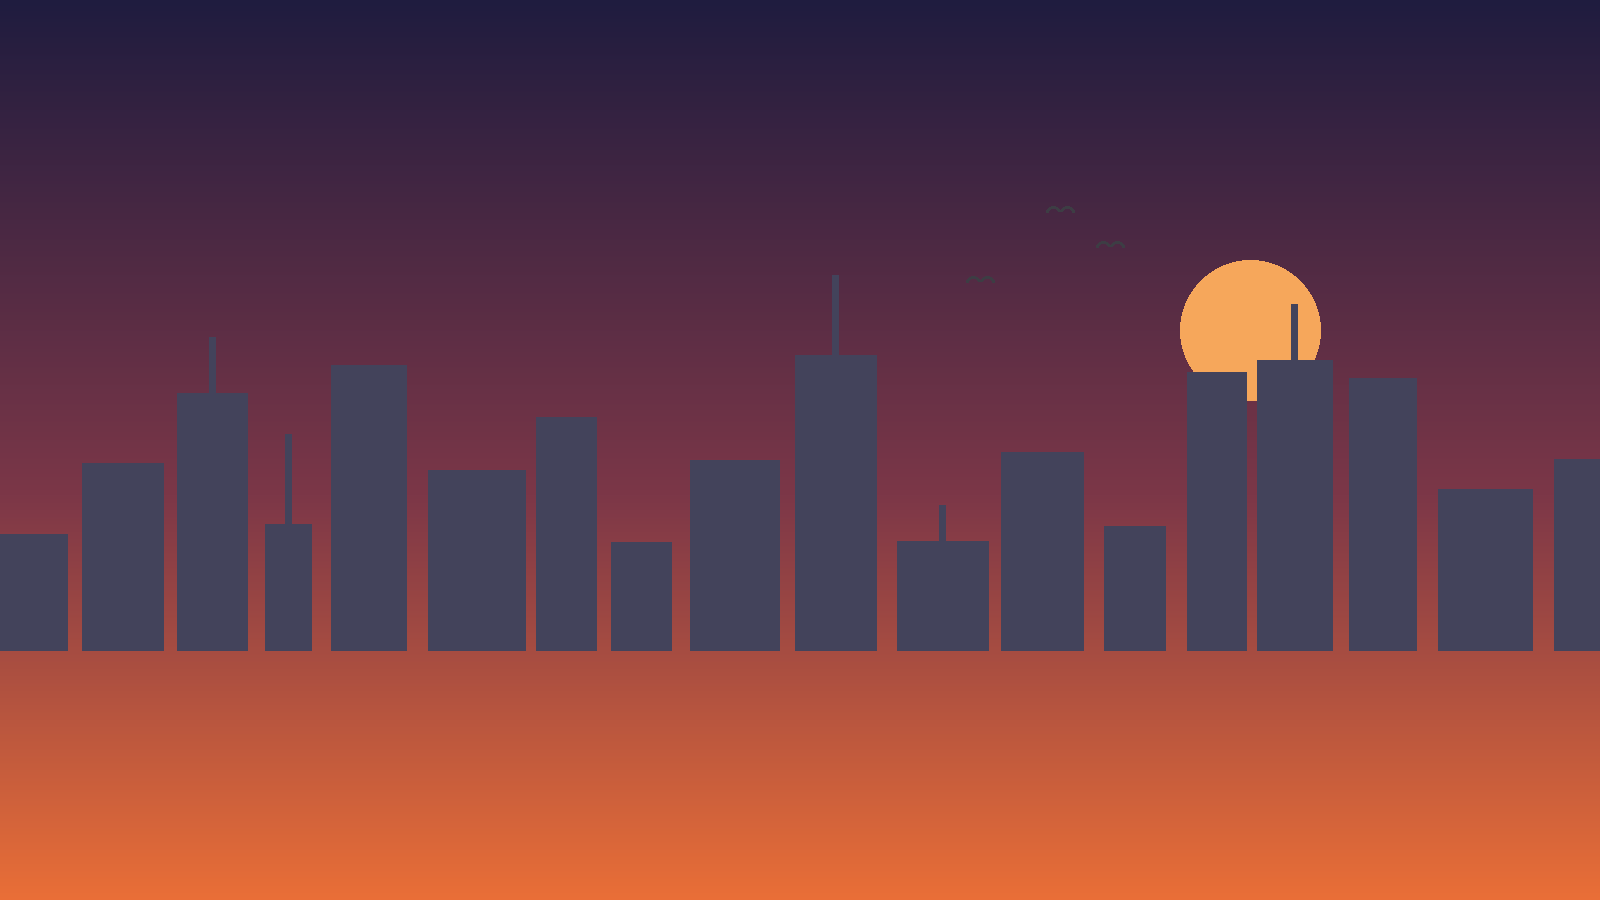
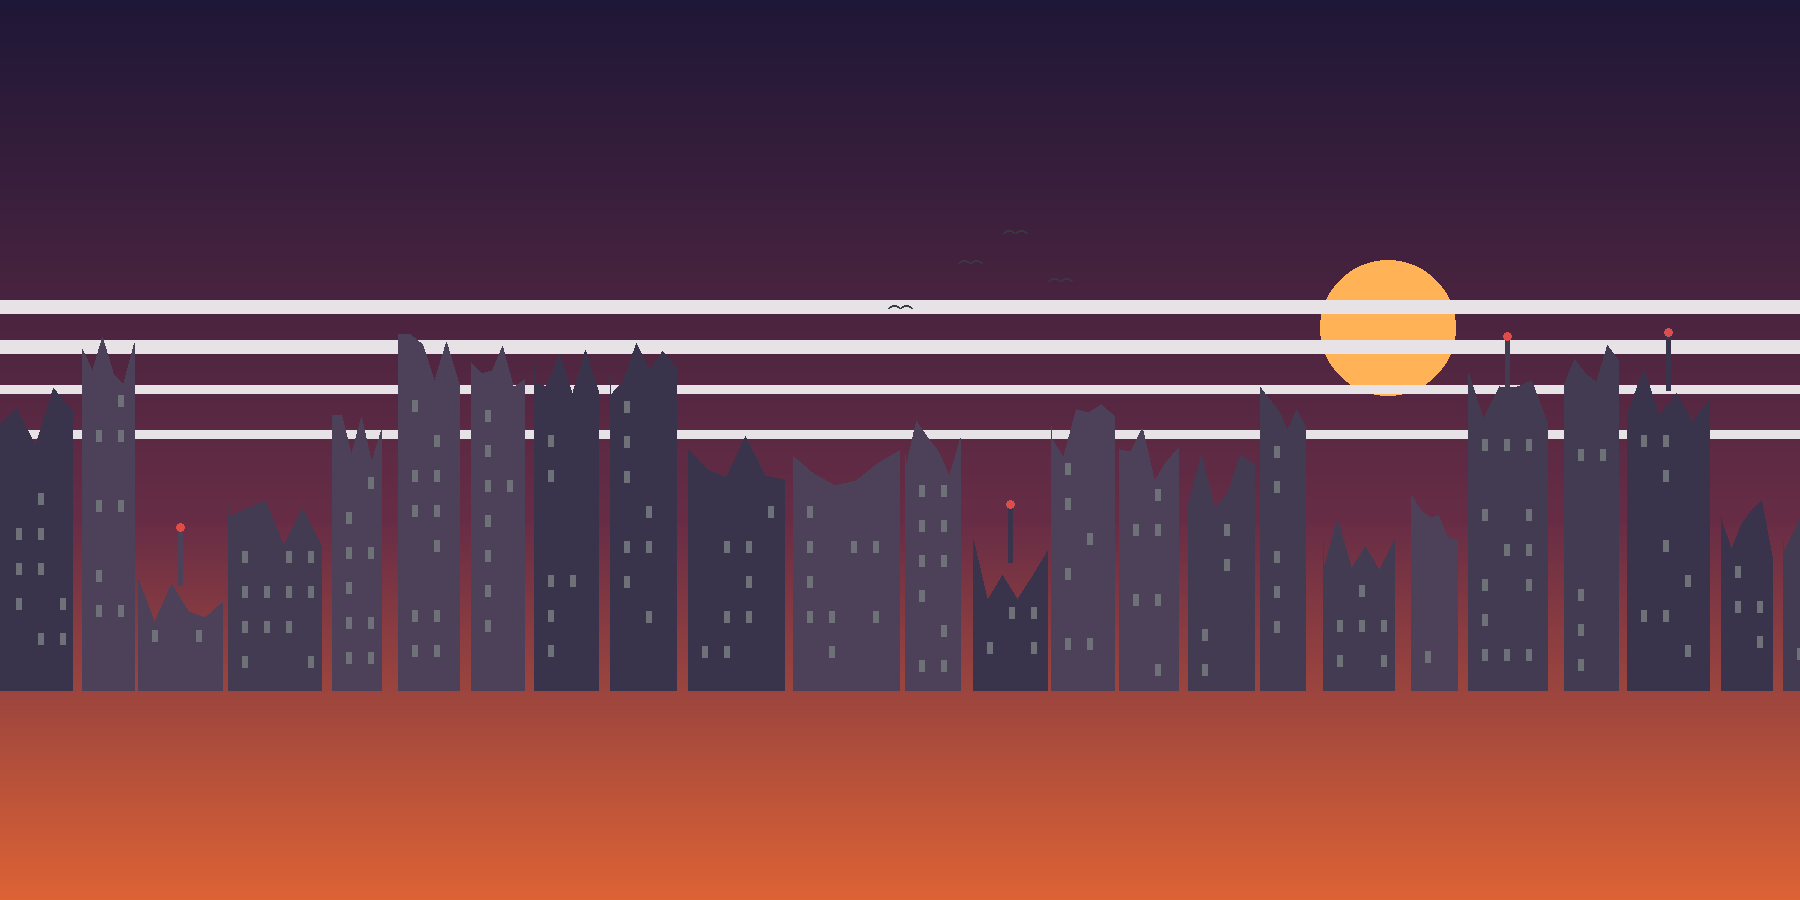
Add files via upload

Changed region(s): [[0.0, 0.28, 1.0, 0.7778]]

diff --git a/index.html b/index.html
@@ -1,88 +1,51 @@
-<!doctype html>
-<html lang="it"><head>
-<meta charset="utf-8">
+<!doctype html><html lang="it"><head><meta charset="utf-8">
 <meta name="viewport" content="width=device-width,initial-scale=1,maximum-scale=1,user-scalable=no,viewport-fit=cover">
-<meta name="theme-color" content="#090d13"><link rel="manifest" href="manifest.json">
-<title>Eco Solitario v0.8 — World Layers</title>
+<meta name="theme-color" content="#080b10"><link rel="manifest" href="manifest.json"><title>Eco Solitario v0.9 — Alter Alive</title>
 <style>
-*{box-sizing:border-box;-webkit-user-select:none;user-select:none}
-html,body{margin:0;width:100%;height:100%;overflow:hidden;background:#080b10;font-family:"Courier New",monospace;color:#f3dfb3}
-#rotate{display:none;position:fixed;inset:0;z-index:99;background:#080b10;align-items:center;justify-content:center;text-align:center;padding:30px;font-size:20px}
-#game{position:fixed;inset:0;overflow:hidden;background:#151528;touch-action:none}
+*{box-sizing:border-box;-webkit-user-select:none;user-select:none}html,body{margin:0;width:100%;height:100%;overflow:hidden;background:#07090d;font-family:"Courier New",monospace;color:#f1dfb9}
+#rotate{display:none;position:fixed;inset:0;z-index:100;background:#080b10;align-items:center;justify-content:center;text-align:center;font-size:20px}
+#game{position:fixed;inset:0;overflow:hidden;touch-action:none;background:#16142a}
 .layer{position:absolute;inset:-3%;background-repeat:repeat-x;background-position:center bottom;will-change:transform}
-#far{background-image:url('layer_far.png');background-size:auto 106%;filter:saturate(1.08) brightness(.88)}
+#far{background-image:url('layer_far.png');background-size:auto 106%;filter:saturate(1.12) brightness(.9)}
 #mid{background-image:url('layer_mid.png');background-size:auto 106%}
-.haze{position:absolute;inset:0;background:
-radial-gradient(circle at 72% 42%,rgba(255,137,65,.16),transparent 24%),
-linear-gradient(180deg,rgba(30,13,50,.10) 15%,transparent 42%,rgba(6,7,10,.48) 85%);pointer-events:none}
-.grain{position:absolute;inset:0;pointer-events:none;opacity:.08;background-image:
-repeating-linear-gradient(0deg,rgba(255,255,255,.08) 0 1px,transparent 1px 3px);
-mix-blend-mode:overlay}
-.ground{position:absolute;left:0;right:0;bottom:0;height:20%;background:linear-gradient(#29252a,#0a0c0f);border-top:4px solid #6d5140}
-#fore{background-image:url('layer_fore.png');background-size:auto 106%;z-index:15;pointer-events:none;opacity:.92}
-#player{position:absolute;left:18%;bottom:16.5%;width:92px;height:180px;
-background:url('alter_detailed.png') center bottom/contain no-repeat;image-rendering:pixelated;
-transform-origin:50% 100%;z-index:10;filter:drop-shadow(0 8px 7px #000b)}
-#player.idle{animation:breath 2.2s ease-in-out infinite}
-#player.run{animation:runBody .22s ease-in-out infinite alternate}
-@keyframes runFrames{to{background-position:-384px 0}} @keyframes bob{to{margin-bottom:2px}}
-@keyframes breath{50%{transform:translateY(3px) scaleY(.988)}}
-.prop{position:absolute;z-index:8;bottom:18%;filter:drop-shadow(0 4px 3px #0008)}
-.crate{width:55px;height:45px;background:#553c2b;border:5px solid #2c211d;box-shadow:inset 0 0 0 3px #8a6442}
-.barrel{width:38px;height:54px;border-radius:4px;background:linear-gradient(90deg,#3b2e29,#76513c,#302723);border:3px solid #211a18}
-.grass{position:absolute;z-index:11;bottom:18%;width:10px;height:60px;border-left:5px solid #28533a;transform:skew(-15deg)}
-#hud{position:absolute;z-index:30;left:2%;top:4%;min-width:250px;padding:9px 13px;background:rgba(5,8,13,.90);border:2px solid #705849;box-shadow:0 0 18px #0008}
-.title{font-weight:900;font-size:20px;letter-spacing:2px}.red{color:#e25243}.cyan{color:#53d8df}
-#objective{position:absolute;z-index:30;right:3%;top:4%;padding:12px 18px;background:rgba(5,8,13,.91);border-left:3px solid #d38b46;min-width:285px}
-#radioBox{position:absolute;z-index:31;right:3%;top:20%;width:365px;background:rgba(3,8,13,.94);border:1px solid #248da0;padding:12px;display:none}
-.wave{height:16px;margin-top:8px;background:repeating-linear-gradient(90deg,#42d4df 0 2px,transparent 2px 7px);clip-path:polygon(0 50%,4% 20%,8% 70%,12% 25%,16% 80%,20% 35%,24% 65%,28% 10%,32% 90%,36% 35%,40% 60%,44% 20%,48% 75%,52% 40%,56% 60%,60% 15%,64% 85%,68% 35%,72% 70%,76% 25%,80% 75%,84% 35%,88% 60%,92% 20%,96% 70%,100% 50%)}
-#joy{position:absolute;z-index:40;left:4%;bottom:5%;width:122px;height:122px;border-radius:50%;border:3px solid #7778;background:#080c12aa}
-#stick{position:absolute;left:50%;top:50%;width:46px;height:46px;margin:-23px;border-radius:50%;background:#bbb8}
-.btn{position:absolute;z-index:40;border-radius:50%;background:#080c12cc;border:3px solid #7778;color:#fff;font-weight:bold;display:grid;place-items:center;touch-action:none}
-#jump{right:4%;bottom:18%;width:86px;height:86px}#hit{right:3%;bottom:4%;width:76px;height:76px}
-#shoot{right:13%;bottom:6%;width:80px;height:80px}#radio{right:14%;bottom:21%;width:68px;height:68px}
-#tag{position:absolute;z-index:30;left:2%;bottom:2%;font-size:12px;color:#ddd;letter-spacing:1px}
-#version{color:#53d8df}
-@media (orientation:portrait){#rotate{display:flex}#game{display:none}}
-</style></head><body>
-<div id="rotate">📻 RUOTA L’iPHONE<br><br><small>ECO SOLITARIO si gioca in orizzontale.</small></div>
-<div id="game">
- <div id="far" class="layer"></div><div id="mid" class="layer"></div><div class="haze"></div><div class="grain"></div><div class="ground"></div>
- <div class="prop crate" style="left:42%"></div><div class="prop barrel" style="left:67%"></div>
- <i class="grass" style="left:34%"></i><i class="grass" style="left:58%;height:78px"></i><i class="grass" style="left:79%;height:48px"></i>
- <div id="player" class="idle"></div><div id="fore" class="layer"></div>
- <div id="hud"><div class="title">ECO SOLITARIO</div><div>VITA <span class="red">♥♥♥♥♥</span> &nbsp; MUNIZIONI <span id="ammo">12/12</span></div></div>
- <div id="objective"><span class="red">OBIETTIVO:</span><br>SEGUI LA FREQUENZA <span class="cyan">47.3 FM</span></div>
- <div id="radioBox"><b class="cyan">47.3 FM — RADIO ECO</b><br><br><span id="line">...C’è qualcuno?</span><div class="wave"></div></div>
- <div id="joy"><div id="stick"></div></div>
- <button class="btn" id="radio">📻</button><button class="btn" id="jump">SALTO</button><button class="btn" id="shoot">SPARO</button><button class="btn" id="hit">MAZZA</button>
- <div id="tag">CITTÀ SENZA NOME · GIORNO ??? &nbsp; | &nbsp; STAY ON THE AIR &nbsp; <span id="version">v0.8.1 VISUAL PASS</span></div>
-</div>
+#fore{background-image:url('layer_fore.png');background-size:auto 106%;z-index:18;pointer-events:none}
+.haze{position:absolute;inset:0;background:radial-gradient(circle at 74% 39%,rgba(255,133,55,.15),transparent 26%),linear-gradient(transparent 48%,rgba(7,8,13,.42));pointer-events:none}
+.platform{position:absolute;z-index:7;height:28px;background:linear-gradient(#6e5942 0 5px,#2b2929 5px 100%);border-top:3px solid #9b7950;box-shadow:0 7px 12px #0008}
+.platform:after{content:"";position:absolute;left:0;right:0;top:-10px;height:12px;background:repeating-linear-gradient(110deg,#315a36 0 5px,transparent 5px 16px)}
+#p1{left:-5%;bottom:17%;width:66%}#p2{left:69%;bottom:24%;width:38%}#p3{left:48%;bottom:39%;width:18%}
+.crate{position:absolute;z-index:8;width:48px;height:43px;background:#68472d;border:5px solid #32251d;box-shadow:inset 0 0 0 2px #9a7147}
+#player{position:absolute;z-index:12;left:20%;bottom:19.5%;width:160px;height:190px;background-image:url('alter_alive_sheet.png');background-size:1920px 190px;background-repeat:no-repeat;image-rendering:pixelated;transform-origin:50% 100%;filter:drop-shadow(0 8px 6px #000a)}
+#player.idle{animation:idle .9s steps(2) infinite}#player.run{animation:run .48s steps(6) infinite}
+@keyframes idle{from{background-position:0 0}to{background-position:-320px 0}}@keyframes run{from{background-position:-320px 0}to{background-position:-1280px 0}}
+#hud{position:absolute;z-index:30;left:2%;top:3%;padding:9px 13px;background:#05080eea;border:2px solid #725947;min-width:260px}.title{font-size:20px;font-weight:bold;letter-spacing:2px}.red{color:#e65347}.cyan{color:#52d9df}
+#obj{position:absolute;z-index:30;right:3%;top:3%;padding:10px 15px;background:#05080eea;border-left:3px solid #dc974e;min-width:290px}
+#radioBox{position:absolute;z-index:31;right:3%;top:18%;width:355px;padding:11px;background:#03080ef0;border:1px solid #2794a3;display:none}.wave{height:14px;margin-top:7px;background:repeating-linear-gradient(90deg,#43dbe2 0 2px,transparent 2px 7px)}
+#joy{position:absolute;z-index:40;left:3%;bottom:4%;width:122px;height:122px;border:3px solid #8888;border-radius:50%;background:#070b11aa}.stick{position:absolute;left:50%;top:50%;width:46px;height:46px;margin:-23px;border-radius:50%;background:#bbb9}
+.btn{position:absolute;z-index:40;border-radius:50%;background:#070b11d8;border:3px solid #8888;color:white;font-weight:bold;display:grid;place-items:center;touch-action:none}
+#jump{right:4%;bottom:19%;width:84px;height:84px}#radio{right:14%;bottom:20%;width:66px;height:66px}#shoot{right:12%;bottom:5%;width:78px;height:78px}#hit{right:3%;bottom:4%;width:76px;height:76px}
+#tag{position:absolute;z-index:30;left:2%;bottom:1.8%;font-size:11px;letter-spacing:1px;color:#ddd}#ver{color:#53d8df}
+@media(orientation:portrait){#rotate{display:flex}#game{display:none}}</style></head><body>
+<div id="rotate">📻 RUOTA L’iPHONE<br><br><small>STAY ON THE AIR.</small></div><div id="game">
+<div id="far" class="layer"></div><div id="mid" class="layer"></div><div class="haze"></div>
+<div id="p1" class="platform"></div><div id="p2" class="platform"></div><div id="p3" class="platform"></div>
+<div class="crate" style="left:42%;bottom:20%"></div><div class="crate" style="left:76%;bottom:27%"></div>
+<div id="player" class="idle"></div><div id="fore" class="layer"></div>
+<div id="hud"><div class="title">ECO SOLITARIO</div>VITA <span class="red">♥♥♥♥♥</span> &nbsp; MUNIZIONI <span id="ammo">12/12</span></div>
+<div id="obj"><span class="red">OBIETTIVO:</span><br>SEGUI LA FREQUENZA <span class="cyan">47.3 FM</span></div>
+<div id="radioBox"><b class="cyan">47.3 FM — RADIO ECO</b><br><br><span id="line">Segnali deboli...</span><div class="wave"></div></div>
+<div id="joy"><div class="stick" id="stick"></div></div><button id="radio" class="btn">📻</button><button id="jump" class="btn">SALTO</button><button id="shoot" class="btn">SPARO</button><button id="hit" class="btn">MAZZA</button>
+<div id="tag">CITTÀ SENZA NOME &nbsp;|&nbsp; GIORNO ??? &nbsp;|&nbsp; STAY ON THE AIR &nbsp; <span id="ver">v0.9 ALTER ALIVE</span></div></div>
 <script>
-const p=document.querySelector('#player'),far=document.querySelector('#far'),mid=document.querySelector('#mid'),fore=document.querySelector('#fore'),stick=document.querySelector('#stick');
-let x=18,ammo=12,dir=0,jumping=false,radioOpen=false,world=0;
-const clamp=(n,a,b)=>Math.max(a,Math.min(b,n));
-function update(){
- if(dir){world+=dir*.75;x=clamp(x+dir*.08,12,52)}
- p.style.left=x+'%';p.className=dir?'run':'idle';
- p.style.scale=dir<0?'-1 1':'1 1';
- far.style.transform=`translateX(${-world*.12}px)`;
- mid.style.transform=`translateX(${-world*.32}px)`;
- fore.style.transform=`translateX(${-world*.68}px)`;
- requestAnimationFrame(update)
-} update();
-function joyMove(e){
- const r=document.querySelector('#joy').getBoundingClientRect(),t=e.touches?e.touches[0]:e;
- const dx=clamp(t.clientX-(r.left+r.width/2),-46,46);stick.style.transform=`translateX(${dx}px)`;dir=Math.abs(dx)>10?Math.sign(dx):0
-}
-const joy=document.querySelector('#joy');
-joy.addEventListener('touchstart',e=>{e.preventDefault();joyMove(e)},{passive:false});
-joy.addEventListener('touchmove',e=>{e.preventDefault();joyMove(e)},{passive:false});
-joy.addEventListener('touchend',()=>{dir=0;stick.style.transform='translateX(0)'});
-document.querySelector('#jump').ontouchstart=()=>{if(jumping)return;jumping=true;p.animate([{bottom:'17%'},{bottom:'40%'},{bottom:'17%'}],{duration:650,easing:'cubic-bezier(.2,.7,.25,1)'}).onfinish=()=>jumping=false};
-document.querySelector('#shoot').ontouchstart=()=>{if(ammo>0){ammo--;document.querySelector('#ammo').textContent=ammo+'/12';p.animate([{filter:'brightness(2)'},{filter:'brightness(1)'}],{duration:100})}};
-document.querySelector('#hit').ontouchstart=()=>p.animate([{rotate:'0deg'},{rotate:'-8deg'},{rotate:'0deg'}],{duration:180});
-const lines=["...C’è qualcuno?","Se mi senti, rispondi...","Questa è Radio Eco.","Non so più dove siamo.","Forse è meglio così.","Alter... resta sulla frequenza."];
-let li=0;document.querySelector('#radio').ontouchstart=()=>{radioOpen=!radioOpen;document.querySelector('#radioBox').style.display=radioOpen?'block':'none';if(radioOpen)document.querySelector('#line').textContent=lines[li++%lines.length]};
-if('serviceWorker' in navigator)navigator.serviceWorker.register('./sw.js');
+const P=document.querySelector('#player'),F=document.querySelector('#far'),M=document.querySelector('#mid'),R=document.querySelector('#fore'),J=document.querySelector('#joy'),S=document.querySelector('#stick');
+let dir=0,world=0,x=20,ammo=12,busy=false,ro=false,li=0;
+function loop(){if(dir&&!busy){world+=dir*1.1;x=Math.max(12,Math.min(52,x+dir*.09));P.className='run'}else if(!busy)P.className='idle';P.style.left=x+'%';P.style.scale=dir<0?'-1 1':'1 1';F.style.transform=`translateX(${-world*.10}px)`;M.style.transform=`translateX(${-world*.32}px)`;R.style.transform=`translateX(${-world*.72}px)`;requestAnimationFrame(loop)}loop();
+function move(e){let r=J.getBoundingClientRect(),t=e.touches[0],dx=Math.max(-40,Math.min(40,t.clientX-r.left-r.width/2));S.style.transform=`translateX(${dx}px)`;dir=Math.abs(dx)>9?Math.sign(dx):0}
+J.addEventListener('touchstart',e=>{e.preventDefault();move(e)},{passive:false});J.addEventListener('touchmove',e=>{e.preventDefault();move(e)},{passive:false});J.addEventListener('touchend',()=>{dir=0;S.style.transform='translateX(0)'});
+function state(cell,dur,anim){busy=true;P.style.animation='none';P.style.backgroundPosition=(-160*cell)+'px 0';if(anim)anim();setTimeout(()=>{P.style.animation='';busy=false},dur)}
+document.querySelector('#jump').ontouchstart=()=>state(8,650,()=>P.animate([{bottom:'19.5%'},{bottom:'45%'},{bottom:'19.5%'}],{duration:650,easing:'cubic-bezier(.2,.7,.25,1)'}));
+document.querySelector('#shoot').ontouchstart=()=>{if(ammo){ammo--;document.querySelector('#ammo').textContent=ammo+'/12';state(9,220,()=>P.animate([{filter:'brightness(2)'},{filter:'brightness(1)'}],{duration:120}))}};
+document.querySelector('#hit').ontouchstart=()=>state(10,330,()=>P.animate([{rotate:'0deg'},{rotate:'-10deg'},{rotate:'0deg'}],{duration:300}));
+let lines=["Segnali deboli... ma sei ancora lì?","Finché ascolti, non sei solo.","Qualcuno trasmette ancora.","Alter... resta sulla frequenza."];
+document.querySelector('#radio').ontouchstart=()=>{ro=!ro;document.querySelector('#radioBox').style.display=ro?'block':'none';if(ro)document.querySelector('#line').textContent=lines[li++%lines.length]};
+if('serviceWorker'in navigator)navigator.serviceWorker.register('./sw.js');
 </script></body></html>

diff --git a/sw.js b/sw.js
@@ -1,8 +1,4 @@
-const C='eco-v081-visual-pass';
-const A=['./','./index.html','./manifest.json','./layer_far.png','./layer_mid.png','./layer_fore.png','./alter_detailed.png'];
+const C='eco-v090-alter-alive';const A=['./','./index.html','./manifest.json','./layer_far.png','./layer_mid.png','./layer_fore.png','./alter_alive_sheet.png'];
 self.addEventListener('install',e=>{self.skipWaiting();e.waitUntil(caches.open(C).then(c=>c.addAll(A)))});
-self.addEventListener('activate',e=>e.waitUntil(Promise.all([
-  self.clients.claim(),
-  caches.keys().then(k=>Promise.all(k.filter(x=>x!==C).map(x=>caches.delete(x))))
-])));
+self.addEventListener('activate',e=>e.waitUntil(Promise.all([self.clients.claim(),caches.keys().then(k=>Promise.all(k.filter(x=>x!==C).map(x=>caches.delete(x))))])));
 self.addEventListener('fetch',e=>e.respondWith(fetch(e.request).catch(()=>caches.match(e.request))));
